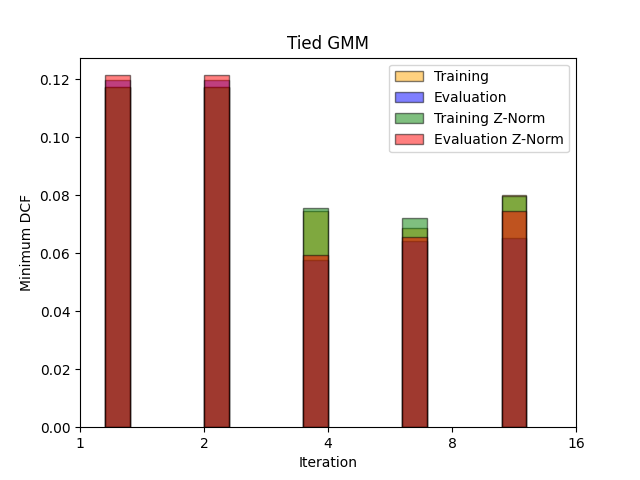
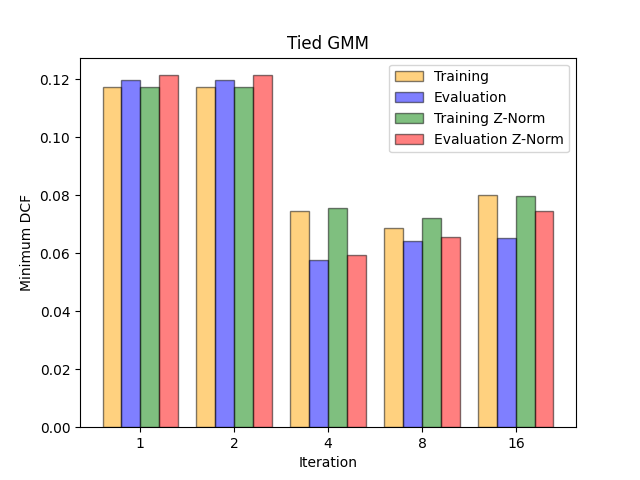
a

diff --git a/Testing/test_gmm.py b/Testing/test_gmm.py
@@ -72,19 +72,19 @@ def TiedGMM_EVAL(DTR, LTR, DTE, LTE, prior):
         res_eval_znorm = MIN_DCF(0.5, 1, 1, LTE, scores)
         min_dcf_results_znorm_eval.append(res_eval_znorm)
         
-        print(f"Fold {i} done")
+        print(f"{i} done")
         
     plt.figure()
     
     iterations = range(5)
-    x_axis = np.arange(len(iterations))
+    x_axis = np.arange(len(iterations)) * 1.25
     bounds = np.array(iterations)
     
     plt.title("Tied GMM and Tied GMM + Znorm")
     
-    plt.bar( x_axis+0.75, min_dcf_results, label="Training", color="orange", alpha=0.5, width=0.25, edgecolor="black", linewidth=1)
-    plt.bar( x_axis+0.75, min_dcf_results_eval, label="Evaluation", color="blue", alpha=0.5, width=0.25, edgecolor="black", linewidth=1)
-    plt.bar( x_axis+0.75, min_dcf_results_znorm, label="Training Z-Norm", color="green", alpha=0.5, width=0.25, edgecolor="black", linewidth=1)
+    plt.bar( x_axis-0.00, min_dcf_results, label="Training", color="orange", alpha=0.5, width=0.25, edgecolor="black", linewidth=1)
+    plt.bar( x_axis+0.25, min_dcf_results_eval, label="Evaluation", color="blue", alpha=0.5, width=0.25, edgecolor="black", linewidth=1)
+    plt.bar( x_axis+0.50, min_dcf_results_znorm, label="Training Z-Norm", color="green", alpha=0.5, width=0.25, edgecolor="black", linewidth=1)
     plt.bar( x_axis+0.75, min_dcf_results_znorm_eval, label="Evaluation Z-Norm", color="red", alpha=0.5, width=0.25, edgecolor="black", linewidth=1)
     
     plt.xticks([r * 1.25 + 0.375 for r in range(len(bounds))], [2**i for i in bounds])
